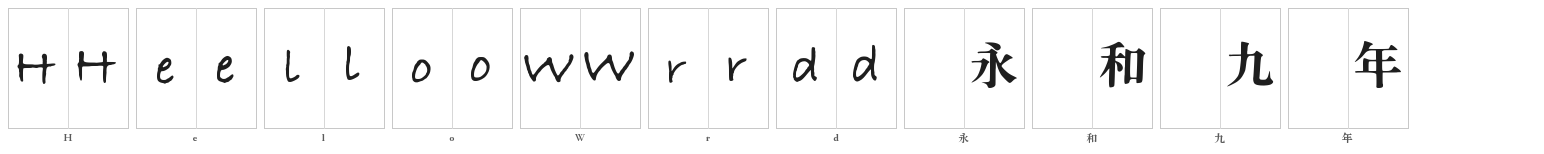
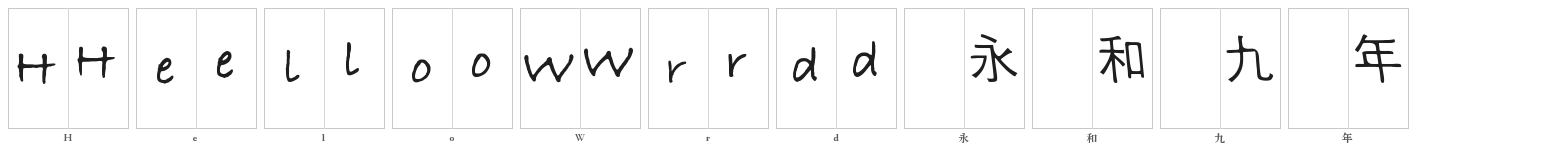
fix(synth): read TTC cmaps correctly and prefer a sans CJK skeleton
- glyphs_of() now passes fontNumber for .ttc faces; before, every TTC skeleton
  looked empty, so stylefit silently fell back to the first probe hit (Songti)
  and HWPDF_SKELETON appeared to work while changing nothing
- CJK skeleton defaults to a sans face (uniform strokes read as pen writing;
  a sheared Songti still looks printed); latin keeps a handwriting face
- HWPDF_SKELETON / HWPDF_SKELETON_STYLE overrides, skeletons shown by synth doctor
- stylefit version 4 invalidates stale glyph caches; 4 new tests (15 total)
- docs/poc: refreshed screenshots, recorded the bug and the skeleton rationale

diff --git a/scripts/synth.py b/scripts/synth.py
@@ -15,6 +15,7 @@ from __future__ import annotations
 
 import hashlib
 import importlib.util
+import os
 import sys
 import time
 from pathlib import Path
@@ -332,14 +333,19 @@ SF_BASELINE = 0.74
 _CMAP_CACHE: dict[str, set[int]] = {}
 
 
-def glyphs_of(font_path: Path) -> set[int]:
-    """Codepoints the font actually maps (a missing char would otherwise draw .notdef)."""
-    key = str(font_path)
+def glyphs_of(font_path: Path, index: int = 0) -> set[int]:
+    """Codepoints the font actually maps (a missing char would otherwise draw .notdef).
+
+    ``index`` selects the face inside a .ttc collection: fontTools reads the whole file as a
+    single SFNT otherwise and ends up with an empty cmap, which used to make every TTC
+    skeleton look "missing" and silently fall back to another font.
+    """
+    key = f"{font_path}#{index}"
     if key not in _CMAP_CACHE:
         try:
             from fontTools.ttLib import TTFont as _FTFont
 
-            _CMAP_CACHE[key] = set(_FTFont(key).getBestCmap())
+            _CMAP_CACHE[key] = set(_FTFont(str(font_path), fontNumber=index).getBestCmap())
         except Exception:
             _CMAP_CACHE[key] = set()
     return _CMAP_CACHE[key]
@@ -370,6 +376,32 @@ def _ink_and_box(mask: np.ndarray, size: int) -> tuple[float, float, float]:
     return float((mask > 0).mean()), float((ys.max() - ys.min() + 1) / size), float((xs.max() - xs.min() + 1) / size)
 
 
+def skeleton_spec(script: str, text: str = "") -> dict | None:
+    """The printed font that style gets stamped onto.
+
+    ``HWPDF_SKELETON=/path/font.ttc#0`` forces one (useful when the system has a better
+    Kai/handwriting face than the probe picks, or to compare skeletons side by side).
+    """
+    raw = os.environ.get("HWPDF_SKELETON", "").strip()
+    if raw:
+        path, _, idx = raw.partition("#")
+        path = Path(path).expanduser()
+        if not path.exists():
+            die(f"HWPDF_SKELETON points at a missing font: {path}")
+        spec = {"path": str(path), "index": int(idx) if idx.isdigit() else 0, "han": 0, "style": "env"}
+    else:
+        # A pen makes uniform strokes: for CJK a sans skeleton reads as handwriting far more
+        # than a serif one (宋体 keeps its 三角 flares even when sheared). Latin still prefers a
+        # real handwriting face when the system has one.
+        prefer = os.environ.get("HWPDF_SKELETON_STYLE") or ("sans" if script == "cjk" else "hand")
+        spec = fonts.find_for(script, "", prefer=prefer)
+    if spec is None:
+        return None
+    if text and not fonts.covers(spec, text):
+        return None
+    return spec
+
+
 def fit_style(style_font: Path, size: int, script: str = "latin") -> dict:
     """Measure slant / stroke weight / proportion on the glyphs the user wrote, for one script."""
     cmap = glyphs_of(style_font)
@@ -388,13 +420,13 @@ def fit_style(style_font: Path, size: int, script: str = "latin") -> dict:
     shear = max((float(sh) for sh in np.arange(-0.30, 0.301, 0.04)), key=lambda sh: _shear_score(stack, sh))
     ink, hh, ww = _ink_and_box(stack, size)
 
-    skel_spec = fonts.find(script)
+    skel_spec = skeleton_spec(script, "".join(seeds))
     if skel_spec is None:
         return dict(NEUTRAL, slant=round(shear, 3), seeds="".join(seeds), skeleton=None, skeleton_index=0)
     skel_font = ImageFont.truetype(skel_spec["path"], int(size * STYLE_SCALE), index=skel_spec["index"])
     skel_stack = np.zeros((size, size), np.uint8)
     for ch in seeds:
-        if ord(ch) in glyphs_of(Path(skel_spec["path"])):
+        if ord(ch) in glyphs_of(Path(skel_spec["path"]), skel_spec["index"]):
             skel_stack = np.maximum(skel_stack, _draw(skel_font, ch, size, SF_BASELINE))
     s_ink, s_h, s_w = _ink_and_box(skel_stack, size)
     return {
@@ -463,7 +495,7 @@ class StyleFitEngine(Engine):
     """Offline baseline: imprint measured style parameters on a skeleton font."""
 
     name = "stylefit"
-    version = 2
+    version = 4
     summary = "analytic baseline: fit slant/weight/proportion from your glyphs (no model, no GPU)"
     kind = "analytic"
 
@@ -484,7 +516,7 @@ class StyleFitEngine(Engine):
         other = "cjk" if script == "latin" else "latin"
         q = self._params.get(other) or fit_style(style_font, size, other)
         if q.get("fitted"):
-            spec = fonts.find(script)
+            spec = skeleton_spec(script)
             borrowed = {**q, "seeds": "", "borrowed_from": other}
             if spec:
                 borrowed["skeleton"], borrowed["skeleton_index"] = spec["path"], spec["index"]
@@ -517,7 +549,8 @@ class StyleFitEngine(Engine):
                 script = "cjk" if util.is_cjk(ch) else "latin"
                 p = self.params(style, size, script)
                 base = None
-                if p.get("skeleton") and ord(ch) in glyphs_of(Path(p["skeleton"])):
+                if p.get("skeleton") and ord(ch) in glyphs_of(
+                        Path(p["skeleton"]), p.get("skeleton_index", 0)):
                     skel = ImageFont.truetype(p["skeleton"], int(size * STYLE_SCALE), index=p["skeleton_index"])
                     base = _draw(skel, ch, size, SF_BASELINE)
                 if base is None:
@@ -806,6 +839,11 @@ def doctor_rows() -> list[tuple[str, str, str]]:
         if eng.kind == "model" and eng.weights:
             detail += f"; weights: {models_dir() / eng.weights[0]}"
         rows.append((name, status, detail))
+    for script in ("cjk", "latin"):
+        spec = skeleton_spec(script)
+        rows.append((f"skeleton {script}",
+                     f"{spec['path']}#{spec['index']}" if spec else "none",
+                     "the printed face stylefit stamps style onto"))
     rows.append(("python", sys.version.split()[0], sys.executable))
     rows.append(("models", "dir", str(models_dir())))
     rows.append(("cache", "dir", str(cache_root() / "synth")))

diff --git a/tests/test_synth.py b/tests/test_synth.py
@@ -5,6 +5,7 @@ No torch: everything here works with the base requirements.
 """
 from __future__ import annotations
 
+import os
 import sys
 import tempfile
 import unittest
@@ -120,3 +121,47 @@ class CacheKeyTests(unittest.TestCase):
 
 if __name__ == "__main__":
     unittest.main()
+
+
+class GlyphSourceTests(unittest.TestCase):
+    """The cmap reader decides "did the user write this?" and "does the skeleton have it?"."""
+
+    def setUp(self):
+        self.tmp = tempfile.TemporaryDirectory()
+        self.out = Path(self.tmp.name) / "f.ttf"
+
+    def tearDown(self):
+        self.tmp.cleanup()
+
+    def test_built_font_reports_its_codepoints(self):
+        synth.build(None, "AB1", self.out, engine="stub", cache=False, style_required=False)
+        cmap = synth.glyphs_of(self.out)
+        self.assertTrue({ord("A"), ord("B"), ord("1"), ord(" ")} <= cmap)
+
+    def test_missing_file_is_empty_not_an_error(self):
+        self.assertEqual(synth.glyphs_of(Path(self.tmp.name) / "nope.ttf"), set())
+
+    def test_skeleton_override_parses_the_face_index(self):
+        synth.build(None, "AB", self.out, engine="stub", cache=False, style_required=False)
+        old = os.environ.get("HWPDF_SKELETON")
+        os.environ["HWPDF_SKELETON"] = f"{self.out}#0"
+        try:
+            spec = synth.skeleton_spec("latin")
+        finally:
+            if old is None:
+                del os.environ["HWPDF_SKELETON"]
+            else:
+                os.environ["HWPDF_SKELETON"] = old
+        self.assertEqual((spec["path"], spec["index"]), (str(self.out), 0))
+
+    def test_missing_skeleton_override_fails_loudly(self):
+        old = os.environ.get("HWPDF_SKELETON")
+        os.environ["HWPDF_SKELETON"] = str(Path(self.tmp.name) / "absent.ttf")
+        try:
+            with self.assertRaises(SystemExit):
+                synth.skeleton_spec("cjk")
+        finally:
+            if old is None:
+                del os.environ["HWPDF_SKELETON"]
+            else:
+                os.environ["HWPDF_SKELETON"] = old

diff --git a/scripts/fonts.py b/scripts/fonts.py
@@ -258,11 +258,20 @@ def find(kind: str, refresh: bool = False) -> dict | None:
     return found[0] if found else None
 
 
-def find_for(kind: str, text: str = "", refresh: bool = False) -> dict | None:
-    """Like find(), but prefer a face that covers every character of `text`."""
+def find_for(kind: str, text: str = "", refresh: bool = False, prefer: str | None = None) -> dict | None:
+    """Like find(), but prefer a face that covers every character of `text`.
+
+    ``prefer`` narrows the style class first: "sans" (uniform strokes — closest to a pen for
+    CJK skeletons), "serif", or "hand". It only reorders; it never filters a class out entirely.
+    """
     found = candidates(kind, refresh=refresh)
     if not found:
         return None
+    if prefer:
+        wanted = {"sans": 1, "serif": 2, "hand": 3}.get(prefer)
+        preferred = [s for s in found if s["style"] == wanted]
+        if preferred:
+            found = preferred + [s for s in found if s not in preferred]
     need = {ord(ch) for ch in text if ch not in "\r\n\t "}
     if need:
         for spec in found:

diff --git a/docs/poc/stylefit.md b/docs/poc/stylefit.md
@@ -1,14 +1,16 @@
 # PoC：`stylefit` 解析式基线（S4 之前的对照点）
 
 > 结论先说：`stylefit` 不是风格迁移。它只学四样能测的东西——倾角、笔宽、x 高、字宽比例——把它们印到系统骨架字上。你写过的字原样复用；没写过的字保持骨架字的结构，带上你的倾斜和粗细。
+>
+> 2026-11-11 修正：骨架默认改成**无衬线（黑体）**。同一套倾斜/粗细参数下，宋体的三角顿笔即使被斜切也还是印刷体观感，黑体的统一笔宽更接近钢笔。见下面的对照与「骨架怎么选」。
 
 ## 它做什么
 
 1. 用你写的字（`--style <你的字体.ttf>`）渲染取样：拉丁 `xnoaehgpds`、中文 `永和九年岁在癸丑上下中今`（取实际存在的）。
 2. 列投影方差扫描 −0.30..+0.30 估倾角；墨水比 → 笔宽（腐蚀/膨胀 −1..+2 级）；高宽比 → y/x 缩放（夹在 0.85–1.15）。
-3. 对每个没写过的字：系统骨架字（中文宋体 / 拉丁 Bradley Hand）→ 仿射（倾角+缩放+±0.6° 抖动）→ 形态学调粗细 → 出界就整体平移回格内。
+3. 对每个没写过的字：系统骨架字（中文黑体 / 拉丁 Bradley Hand）→ 仿射（倾角+缩放+±0.6° 抖动）→ 形态学调粗细 → 出界就整体平移回格内。
 4. 你写过的字直接画原字形，不做近似。
-5. 中文没有样本时借用拉丁测出的倾角与笔宽（同一个人的手是同一个倾斜），骨架仍是宋体。
+5. 中文没有样本时借用拉丁测出的倾角与笔宽（同一个人的手是同一个倾斜），骨架仍是系统黑体。
 
 ## 复现
 
@@ -25,7 +27,11 @@ python scripts/eval_synth.py --font build/stylefit/font-all.ttf \
 hwpdf synth specimen --font build/stylefit/font-all.ttf --real build/selftest/font.ttf \
   --chars "Helo Wrd 永和九年" -o build/stylefit/spec.png
 
-# 4) 真正排一页
+# 4) 换骨架对照（可选）：HWPDF_SKELETON=/path/font.ttc#0，HWPDF_SKELETON_STYLE=sans|serif|hand
+HWPDF_SKELETON="/System/Library/Fonts/Supplemental/Songti.ttc#0" hwpdf synth build \
+  --style build/selftest/font.ttf --charset "永和九年" -o build/songti-test.ttf --no-cache
+
+# 5) 真正排一页
 hwpdf render --font build/selftest/font.ttf --fallback build/stylefit/font-all.ttf \
   --text "The quick brown fox jumps over the lazy dog 0123. 永和九年，岁在癸丑，暮春之初，会于会稽山阴之兰亭。" \
   -o build/stylefit/page-all.pdf --size 24
@@ -35,22 +41,22 @@ hwpdf render --font build/selftest/font.ttf --fallback build/stylefit/font-all.t
 
 | 指标 | 结果 |
 |---|---|
-| 字库规模 | 3877 字（ASCII + GB2312 一级 3755 + 中文标点），**8.3 s** |
+| 字库规模 | 3877 字（ASCII + GB2312 一级 3755 + 中文标点），**9.0 s** |
 | 质量门 | passed 3877 / rejected 0 / retried 0 |
 | 原样复用（你写过的字） | 归一化 IoU **0.94–0.95**（1.0 = 像素级一致；差异来自 TTF 量化与包围盒归一） |
 | 倾角 | 真实 **+0.20** → 生成 **+0.16**（拟合把倾斜印上去了） |
-| 平均墨水填充 | 真实 **0.463** → 生成 **0.475**（略粗一点） |
+| 平均墨水填充 | 真实 **0.463** → 生成 **0.477**（略粗一点） |
 | 覆盖率 | ASCII 40/40、GB2312 3755+ 全部 100% |
 
 ## 观感（图在 `docs/poc/`）
 
 ![你写的 vs 推断的](stylefit-pairs.png)
 
-左格 = 你写的，右格 = 推断的。你写过的字（H/e/l/o/W/r/d）两格一致；中文格是宋体骨架 + 你的倾斜。
+左格 = 你写的，右格 = 推断的。你写过的字（H/e/l/o/W/r/d）两格一致；中文格是黑体骨架 + 你的倾斜，笔画圆头、没有衬线。
 
 ![排出来的页面](stylefit-page.png)
 
-拉丁部分是可信的手写观感；中文部分**仍然像宋体**，只是变斜、变粗了一点。
+拉丁部分是可信的手写观感；中文部分是「斜的、略粗的圆头黑体」——像马克笔写的，不再像宋体印刷体。
 
 ![中文放大](stylefit-cjk-probe.png)
 
@@ -62,9 +68,19 @@ hwpdf render --font build/selftest/font.ttf --fallback build/stylefit/font-all.t
 - 中文在没有中文样本时只是"斜的宋体"，离"像我写的"很远。
 - 它的价值：① 零下载、零 GPU、确定性，今天就能用；② 给 S4 的扩散模型一个可量化的对照（同样输入，比 IoU/倾角/笔宽之外还要比"像不像"）。
 
+## 修正记录：一个被骨架掩盖的 bug
+
+这一轮换骨架时挖出两个真问题，都值得记住：
+
+1. `glyphs_of()` 读 `.ttc` 没传 `fontNumber`，fontTools 返回空 cmap，于是**任何 TTC 骨架都被判定为「没有这个字」**，静默回退到探测表第一名（宋体）。骨架选择功能形同虚设，看不出异常——因为它退回的地方正好是原来默认的地方。
+2. 因此 `HWPDF_SKELETON` 覆盖开关第一次实测时「日志说生效了、字形没变」；修好 cmap 后才得到宋体/黑体的对照。
+
+**骨架怎么选**：`STYLE_SCORE`（楷 > 宋 > 黑）是给练习纸描红用的——描红越像字帖越好。synth 的取向相反：要像「用笔写的」，所以 CJK 默认挑黑体（`HWPDF_SKELETON_STYLE=serif|hand` 可改），拉丁仍优先真手写体。系统里若有楷体，它仍是最佳骨架。
+
 ## 已知限制
 
-- 骨架字决定结构：中文换不成楷体/行书就是印刷体观感；`fonts.py` 在 macOS 上能找到的最高分中文字体通常是宋体。
+- 骨架字决定结构：macOS 只装了宋体与黑体，换不成楷体/行书；黑体+倾斜是「马克笔」观感。
+- 没有笔压变化：粗细是全局形态学膨胀，不是每笔的提按；横细竖粗、起收顿挫学不到。
 - 单一全局倾角：不区分"竖画倾斜"和"整体斜体"，对楷书这类竖画正直的字体会低估。
 - 出界靠平移修正，极端字形（超长竖钩）仍可能被裁。
 - 无连笔，字距是独立的（排印时靠 `--tracking` 与抖动补一点自然感）。

diff --git a/PLAN.md b/PLAN.md
@@ -140,3 +140,6 @@
 **S5 落地细节**：`hwpdf profile save --synth-font <ttf>` 把 synth 字体复制进 profile 并记录 engine/style_sha256/gate；之后 `hwpdf render --profile <名字>` 对"没写过的字"自动用 synth 字体（显式 `--fallback` 优先）；profile 目录可用 `HWPDF_PROFILE_DIR` / `HWPDF_HOME` 改位置。
 
 **S4 之前的 `stylefit` 基线（已可用）**：不训练、不下载、纯 CPU——从你写过的字里量出倾角（列投影方差扫描）、笔宽、x 高/字宽比例，再用仿射+形态学把这些参数印到系统骨架字（中文宋体 / 拉丁 Bradley Hand）上；你写过的字直接原样复用。中文无样本时借用拉丁的倾角与笔宽。它是 S4 的对照基线（`--engine stylefit`，`doctor` 里显示 ready），不是风格迁移：笔画粗细变化、连笔、结构变形都不会被学会。
+
+
+**骨架修正（2026-11-11）**：CJK 骨架默认从宋体改为无衬线（黑体）——统一笔宽更接近钢笔，宋体的三角顿笔斜切后仍是印刷体观感；拉丁仍优先真手写体。起因是发现 `glyphs_of()` 读 `.ttc` 时没传 `fontNumber`，fontTools 返回空 cmap，导致**任何 TTC 骨架都被判定为缺字并静默回退到宋体**，骨架选择一直没真正生效。现在 `synth doctor` 会打印 cjk/latin 实际选用的骨架，`HWPDF_SKELETON`/`HWPDF_SKELETON_STYLE` 可覆盖；`stylefit` 版本号升到 4（缓存自动失效），并补了 4 个 cmap/骨架相关单测（共 15 个）。

diff --git a/SKILL.md b/SKILL.md
@@ -170,8 +170,8 @@ hwpdf profile save --name alex --font hw/font.ttf --synth-font hw/synth.ttf
 hwpdf render --profile alex --text-file doc.txt -o out.pdf                    # synth fills the gaps
 ```
 
-Engines: `stylefit` (analytic — no download, no GPU, deterministic; Chinese glyphs keep their
-Songti skeleton and only pick up the user's slant/weight) and `stub` (test fixture, **not** style
+Engines: `stylefit` (analytic — no download, no GPU, deterministic; Chinese glyphs keep a system
+sans skeleton and only pick up the user's slant/weight) and `stub` (test fixture, **not** style
 transfer). The diffusion engine `diff-font` needs weights whose licences are unresolved (PLAN.md
 §8 S4) — `synth doctor` says so rather than pretending.
 
@@ -218,7 +218,7 @@ Check `meta.gate` in `<font>.json` (`rejected` should be 0) and look at the spec
   pressure/ink texture. Spacing jitter is simulated, glyph shapes are not.
 - CJK: the font contains only written characters. 30 cells per page; a 300-character letter needs
   a 10-page practice sheet. `hwpdf synth build --charset common3500` is the shortcut, but inferred
-  CJK is a system skeleton in the user's slant, not their actual brushwork.
+  CJK is a system sans skeleton in the user's slant, not their actual brushwork.
 - The PDF text layer is real text (searchable/copyable) in the generated font.
 - Photos must show all four black corner squares of the practice sheet.
 

diff --git a/README.md b/README.md
@@ -102,7 +102,7 @@ hwpdf synth eval --font build/stylefit/font-all.ttf --real build/selftest/font.t
 
 - **一字一形**：没有连笔衔接、同字异形、笔压与墨色浓淡；行距/基线抖动是模拟的。
 - **字库只覆盖你写过的字**：中文正文按去重字数逐字写，每页 30 格；缺字用系统楷体兜底并告警。
-  `hwpdf synth` 是实验性的第二引擎。两个可用引擎：`stylefit`（解析式基线：从你写过的字量出倾角/笔宽/比例，再印到系统骨架字上；纯 CPU、不下载）和 `stub`（测试夹具，确定性抖动，**不是**风格迁移）。真正的少样本扩散模型（`diff-font`）还缺权重与许可（PLAN.md §8 S4），`hwpdf synth doctor` 会说清楚缺什么。
+  `hwpdf synth` 是实验性的第二引擎。两个可用引擎：`stylefit`（解析式基线：从你写过的字量出倾角/笔宽/比例，再印到系统骨架字上——中文黑体、拉丁手写体；纯 CPU、不下载）和 `stub`（测试夹具，确定性抖动，**不是**风格迁移）。真正的少样本扩散模型（`diff-font`）还缺权重与许可（PLAN.md §8 S4），`hwpdf synth doctor` 会说清楚缺什么。
 - 生成的 PDF 文字层可搜索/复制（嵌入的是真字体）。
 - 仅供本人字迹的个人文稿使用；不用于签名、合同、票据、证件。
 
